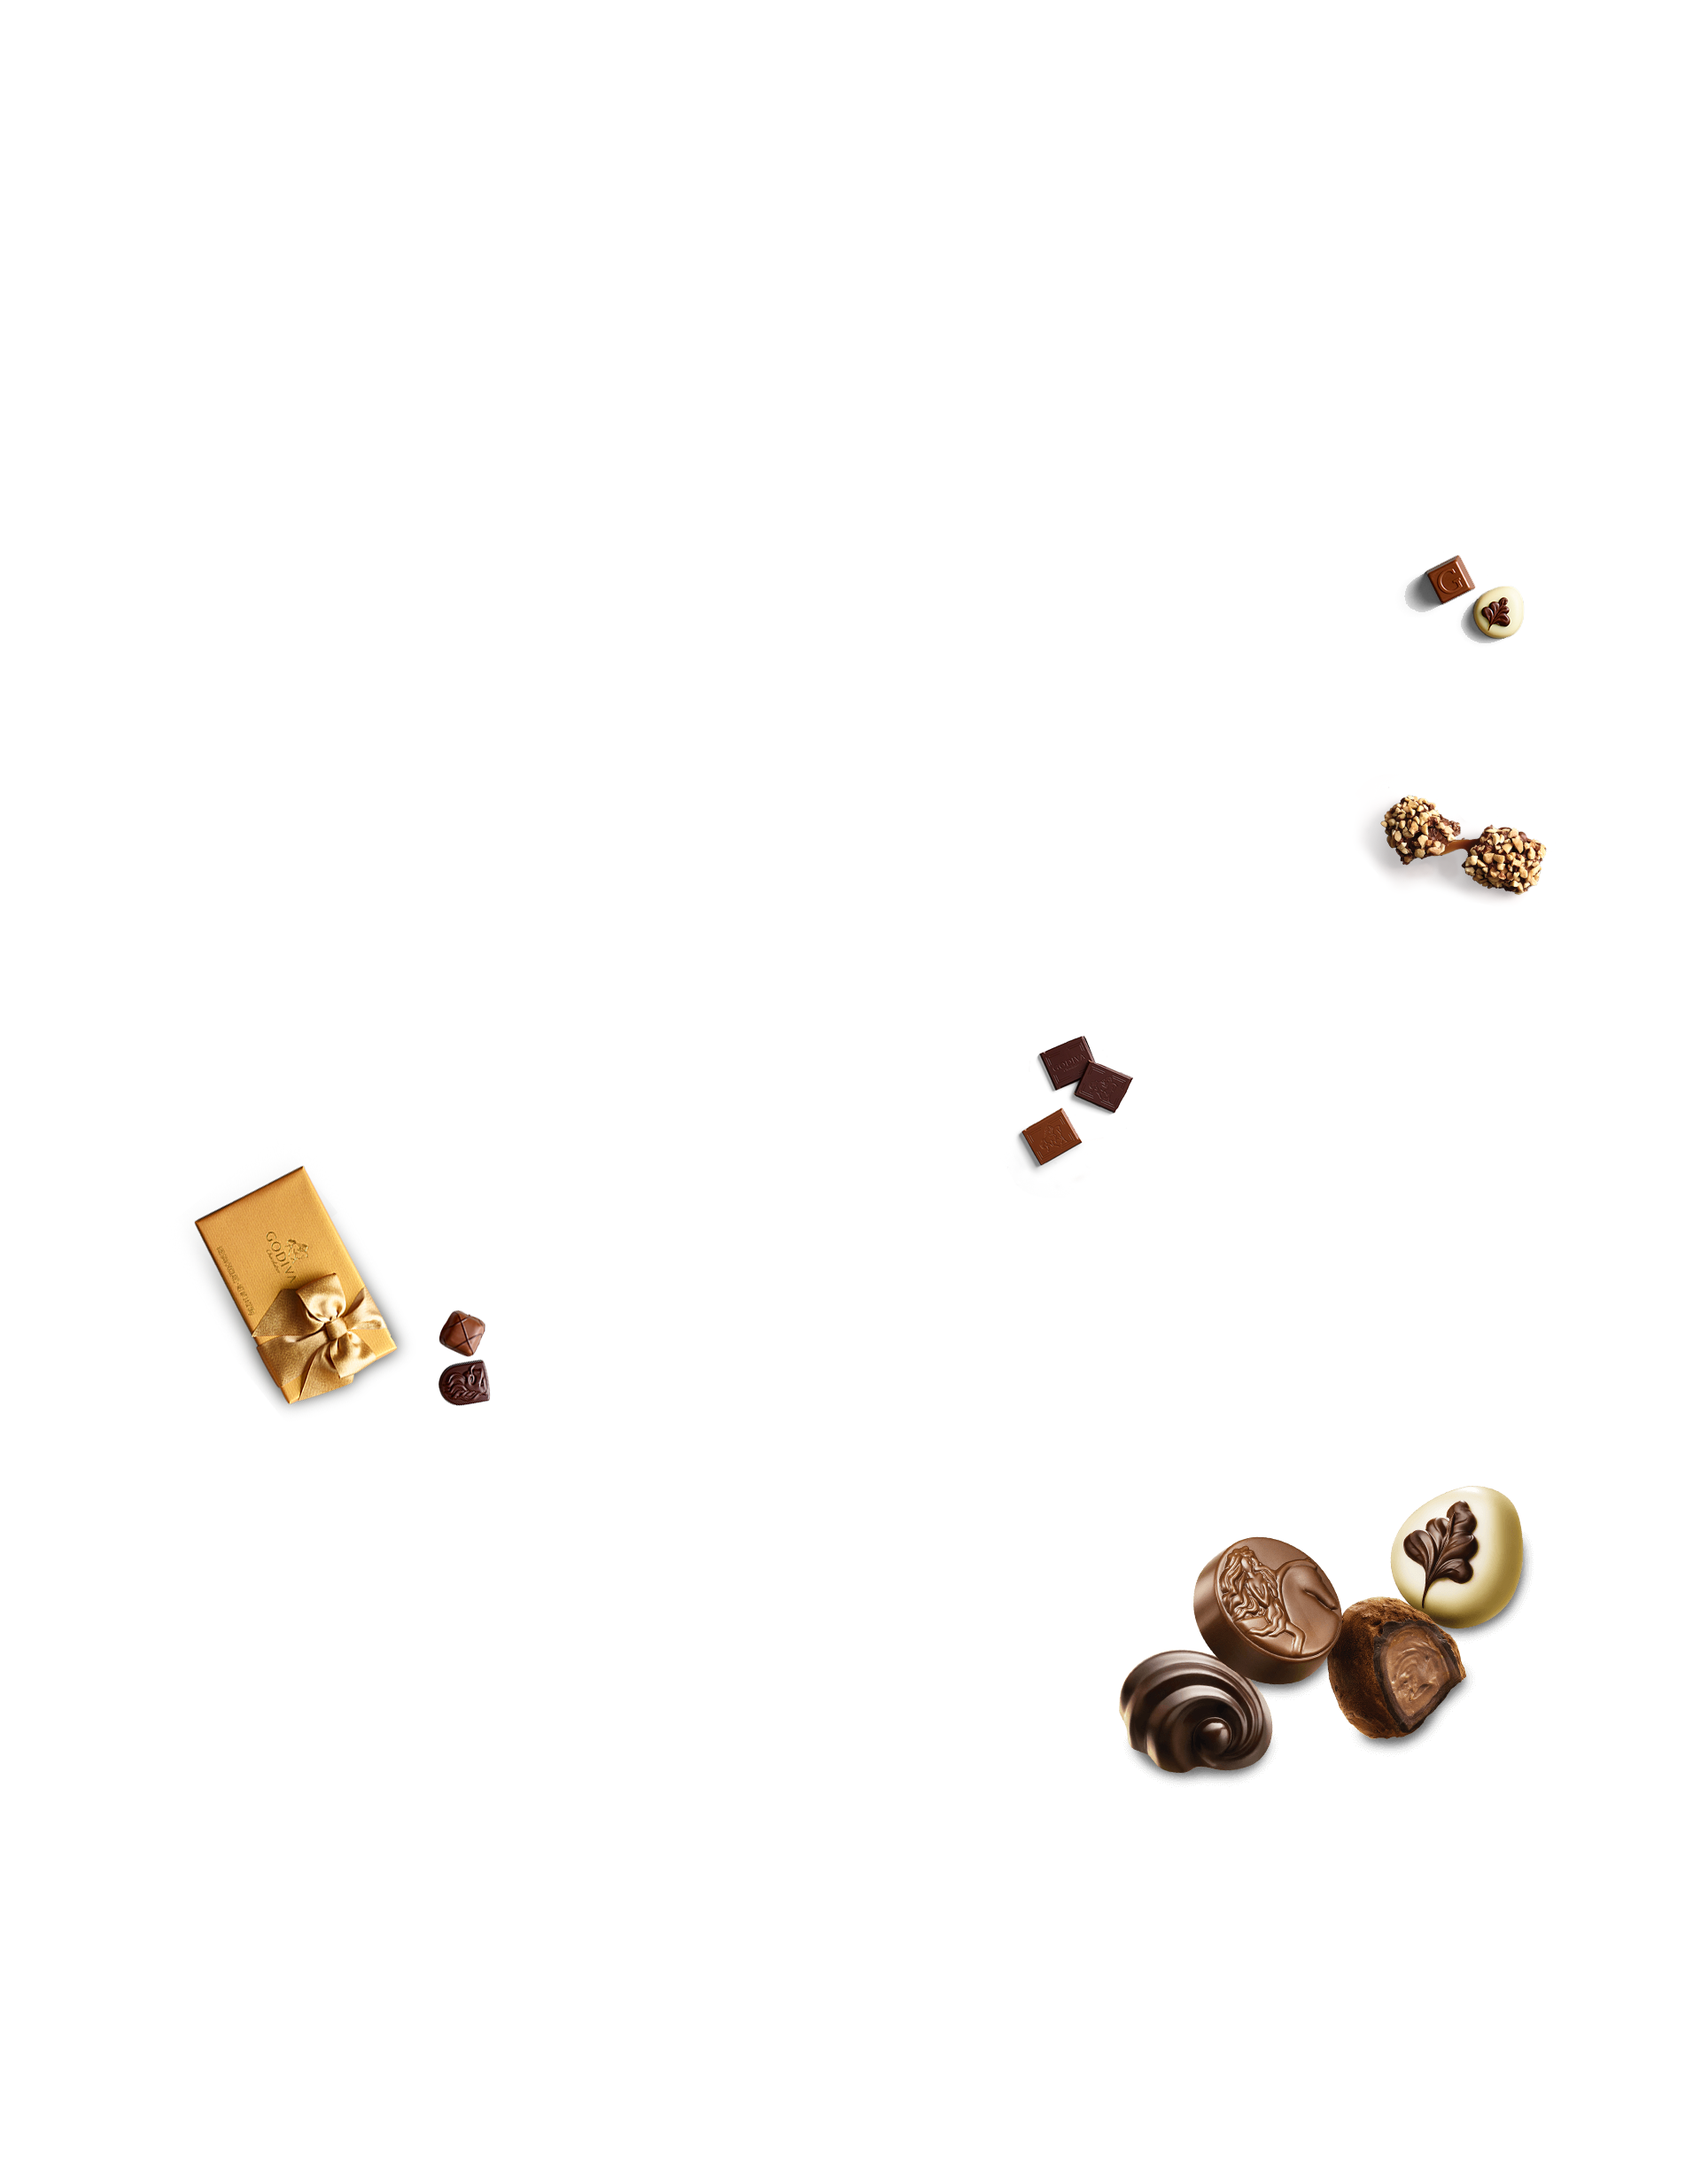
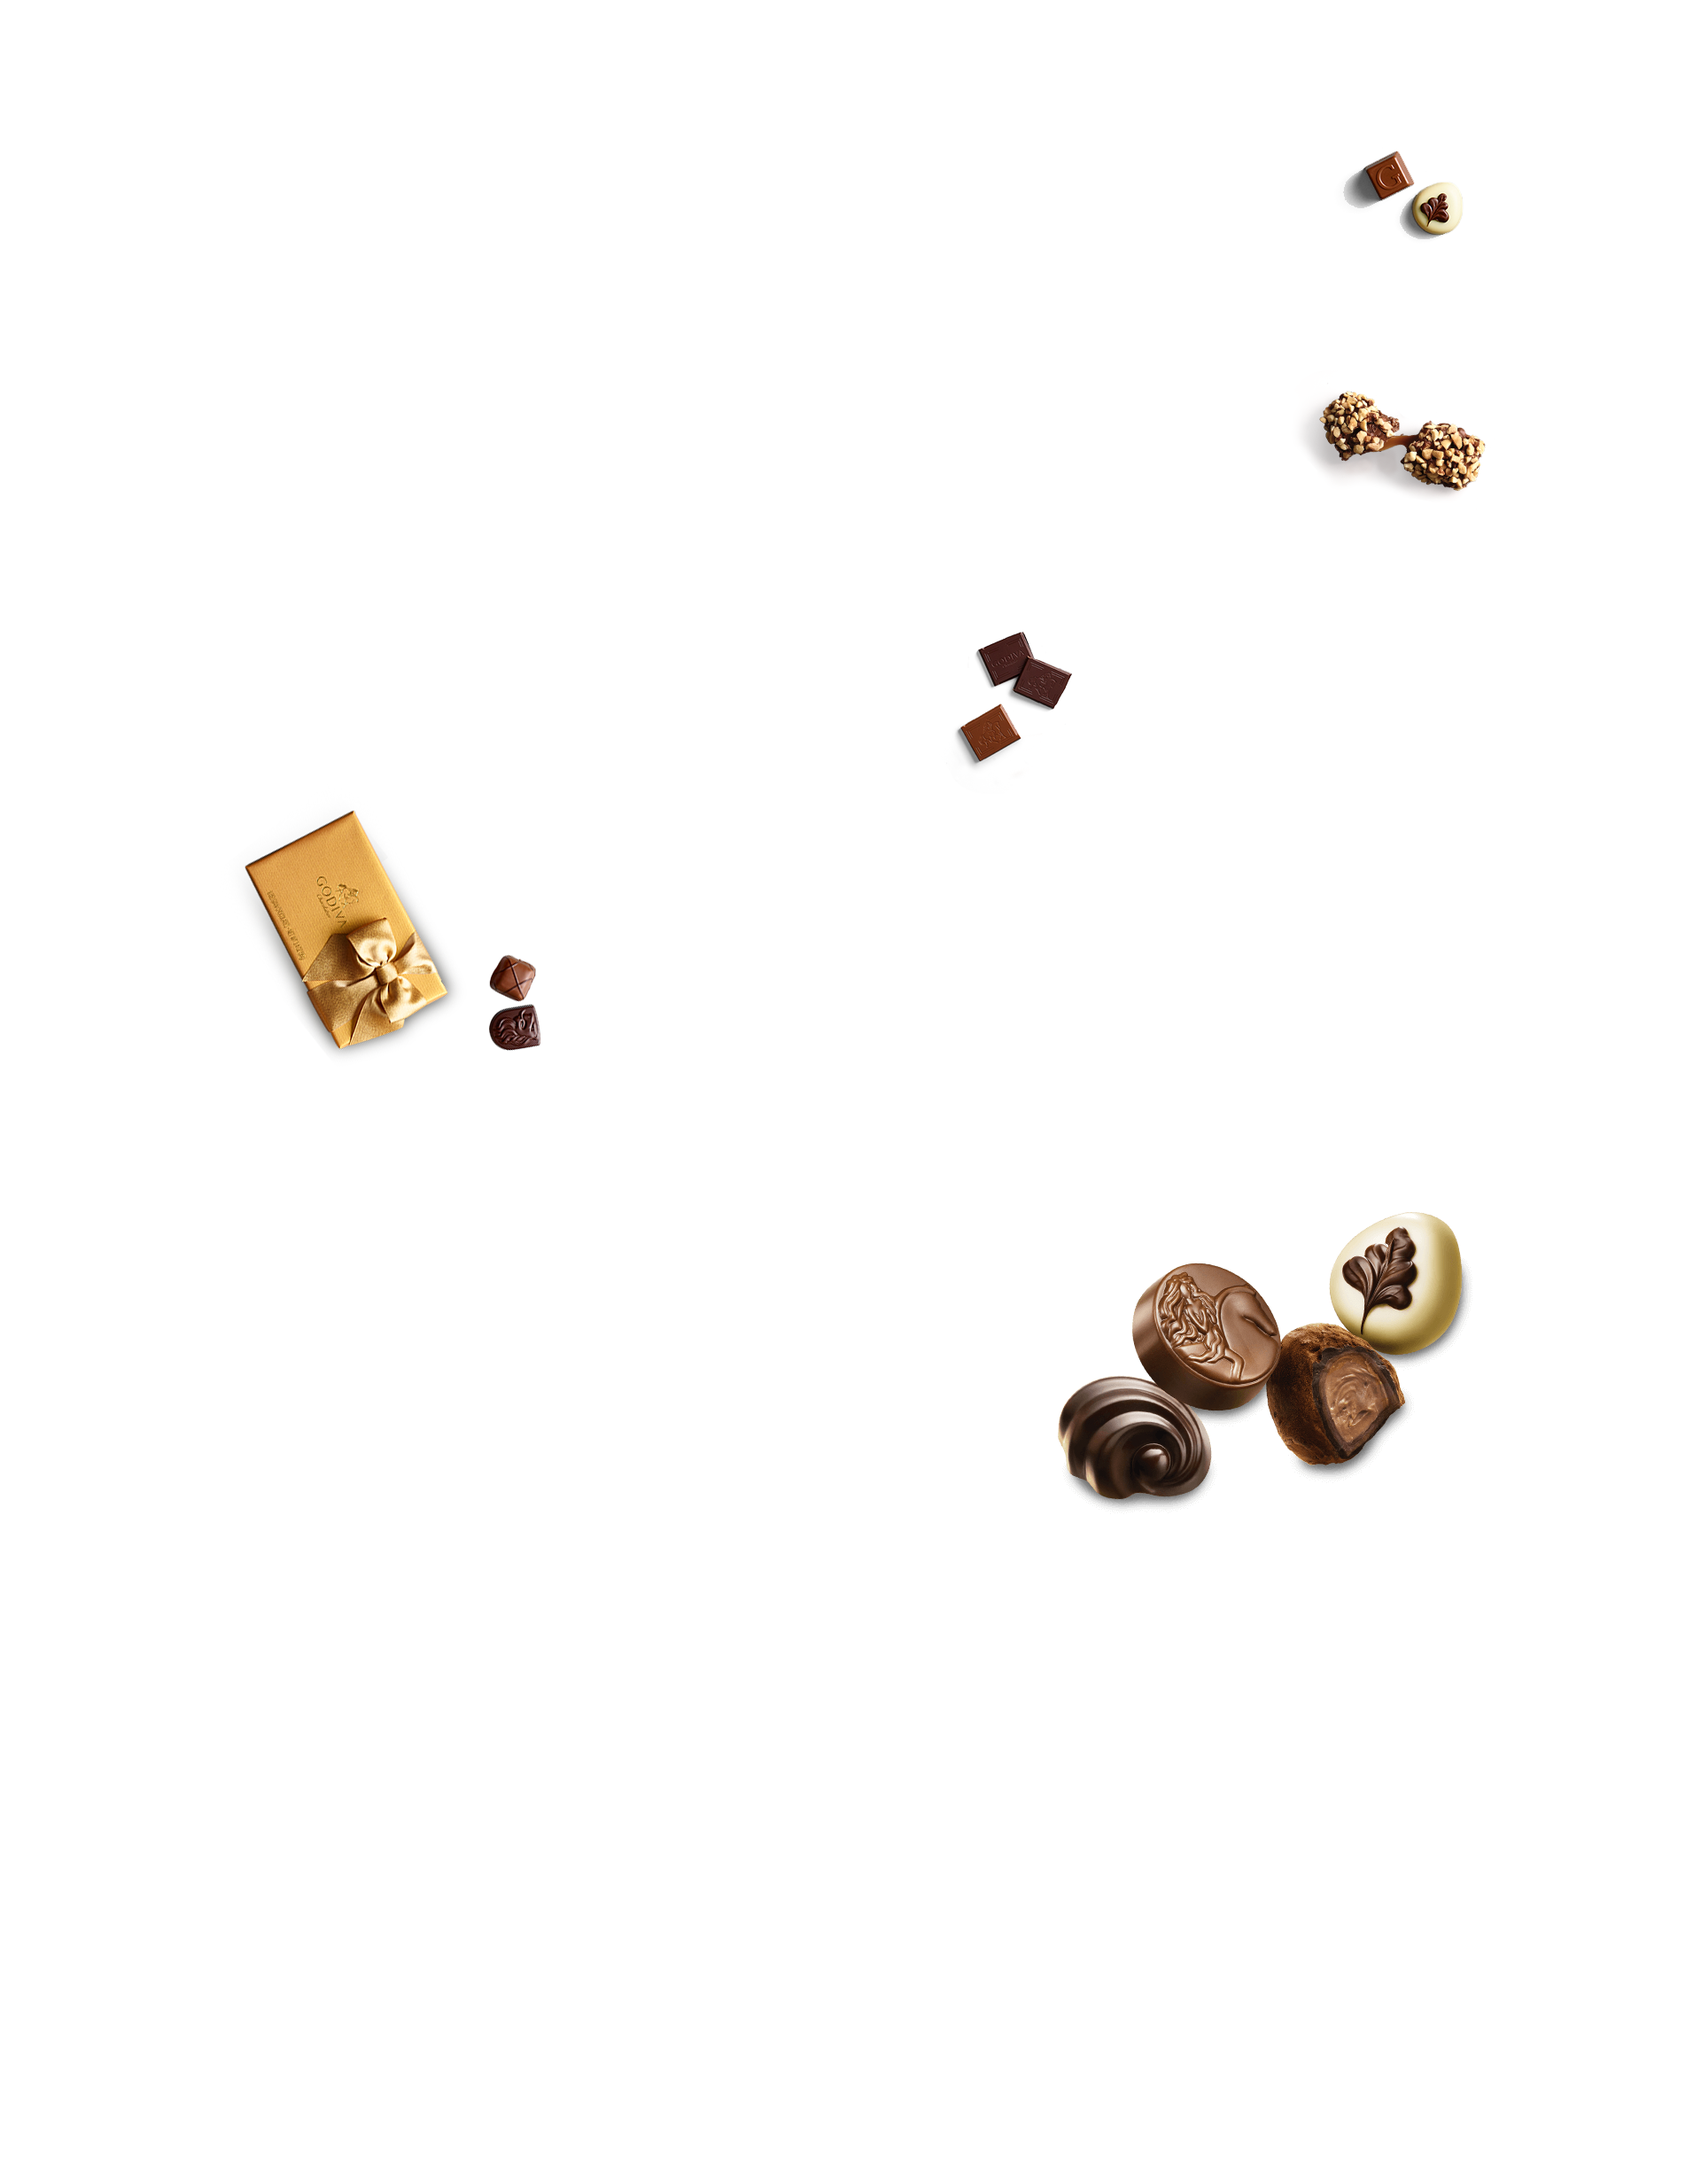
Parallax 추가

diff --git a/src/components/Main/Contents.js b/src/components/Main/Contents.js
@@ -1,11 +1,13 @@
-import React from 'react'
-import { Link, Route } from "react-router-dom";
+import React, { useEffect, useState } from 'react'
+import { Link } from "react-router-dom";
 import SliderComponent from './SliderComponent';
 import SubTitle from './SubTitle';
 import EventList from './EventList';
 import EventListCard from './EventListCard';
 import MenuCard from './MenuCard';
 import InstagramCard from './InstagramCard';
+import { Parallax } from 'react-parallax';
+
 import '../../style/scss/mainpage.scss'
 
 function Contents() {
@@ -70,58 +72,58 @@ function Contents() {
         img: <img src={ require('../../assets/img/main/insta1.jpg') } alt="인스타그램" />,
         type: '#고디바 #고디바초콜릿 #코디바화이트데이 #화이트데이초콜릿 #화이트데이 #완벽한고백 #화이트데이 선물 #여자친구선물 #고디바퍼펙트페어링컬렉션 #godiva #godivachocolate #WonderAwaits',
         mType: '#고디바화이트데이',
-
     }
     const instaProps2 = {
         link: "https://www.instagram.com/godivakorea/?hl=ko",
         img: <img src={ require('../../assets/img/main/insta2.jpg') } alt="인스타그램" />,
         type: '#고디바 #고디바초콜릿 #고디바발렌타인데이 #발렌타인데이초콜릿 #발렌타인데이 #발렌타인데이선물 #남자친구선물 선물 #남자친구선물 #고디바크로니클컬렉션 #godiva #godivachocolate #WonderAwaits',
         mType: '#고디바발렌타인데이',
-
     }
     const instaProps3 = {
         link: "https://www.instagram.com/godivakorea/?hl=ko",
         img: <img src={ require('../../assets/img/main/insta3.jpg') } alt="인스타그램" />,
         type: '#고디바 #고디바골드컬렉션 #프리미엄벨기에초콜릿 #godiva #godivachocolate',
         mType: '#고디바골드컬렉션',
-
     }
     const instaProps4 = {
         link: "https://www.instagram.com/godivakorea/?hl=ko",
         img: <img src={ require('../../assets/img/main/insta4.jpg') } alt="인스타그램" />,
         type: '#godiva Our Signature Coffee Blend is made from perfectly roasted Arabica beans, sourced from thr finest growing regions in the world. Treat yourself to its exceptional, full-bodied flavor at any GODIVA Cafe.',
         mType: '#godivacafe',
-
     }
     const instaProps5 = {
         link: "https://www.instagram.com/godivakorea/?hl=ko",
         img: <img src={ require('../../assets/img/main/insta5.jpg') } alt="인스타그램" />,
         type: '고디바가 벨기에 왕실 인증 초콜릿 브랜드로서 자랑스러운 50주년을 맞이하게 되었습니다! 왕실 인증 브랜드로서 50주년은 벨기에 최고의 독창성과 정교한 장인의 솜씨를 세계에 선사하겠다는 고디바의 신념을 성공적으로 이뤄왔다는 것을 의미합니다.',
         mType: '#GODIVA50주년',
-
     }
     const instaProps6 = {
         link: "https://www.instagram.com/godivakorea/?hl=ko",
         img: <img src={ require('../../assets/img/main/insta6.jpg') } alt="인스타그램" />,
         type: '@godiva NEW GODIVA Cube Truffles. Four luxurious layers of flavor. Exquisite inside ＆ out.',
         mType: '#CubeTruffles',
-
     }
     const instaProps7 = {
         link: "https://www.instagram.com/godivakorea/?hl=ko",
         img: <img src={ require('../../assets/img/main/insta7.jpg') } alt="인스타그램" />,
         type: '@godiva The best way to celebrate #NationalStrawberryDay ? By covering them in GODIVA chocolate. Check out our stories for a special! treat!',
         mType: '#StrawberryDay',
-
     }
+
+    //초콜렛 배경
 
     return (
         <>
             <SliderComponent />
 
             {/* 초콜렛 배경 */}
-            <div className="chocoBg">
-                
+            <Parallax 
+                className="chocoBg" 
+                strength={500} 
+                bgImage={require('../../assets/img/main/choco_bg2.png')}
+                bgImageSize={'cover'}
+            >
+
                 {/* event */}
                 <div className="event">
                     <div className="container">
@@ -190,7 +192,7 @@ function Contents() {
                         </div>
                     </div>
                 </div>
-            </div>
+            </Parallax>
 
             {/* 매장배너*/}
             <div className="store">

diff --git a/src/style/scss/mainpage.scss b/src/style/scss/mainpage.scss
@@ -3,11 +3,7 @@
 
 //background
 .chocoBg{
-    background-image: url(../../assets/img/main/choco_bg2.png); 
     background-color: $main3; 
-    background-attachment: fixed; 
-    background-repeat: no-repeat; 
-    background-size: cover;
 }
 @include desktopBg{
     .chocoBg{
